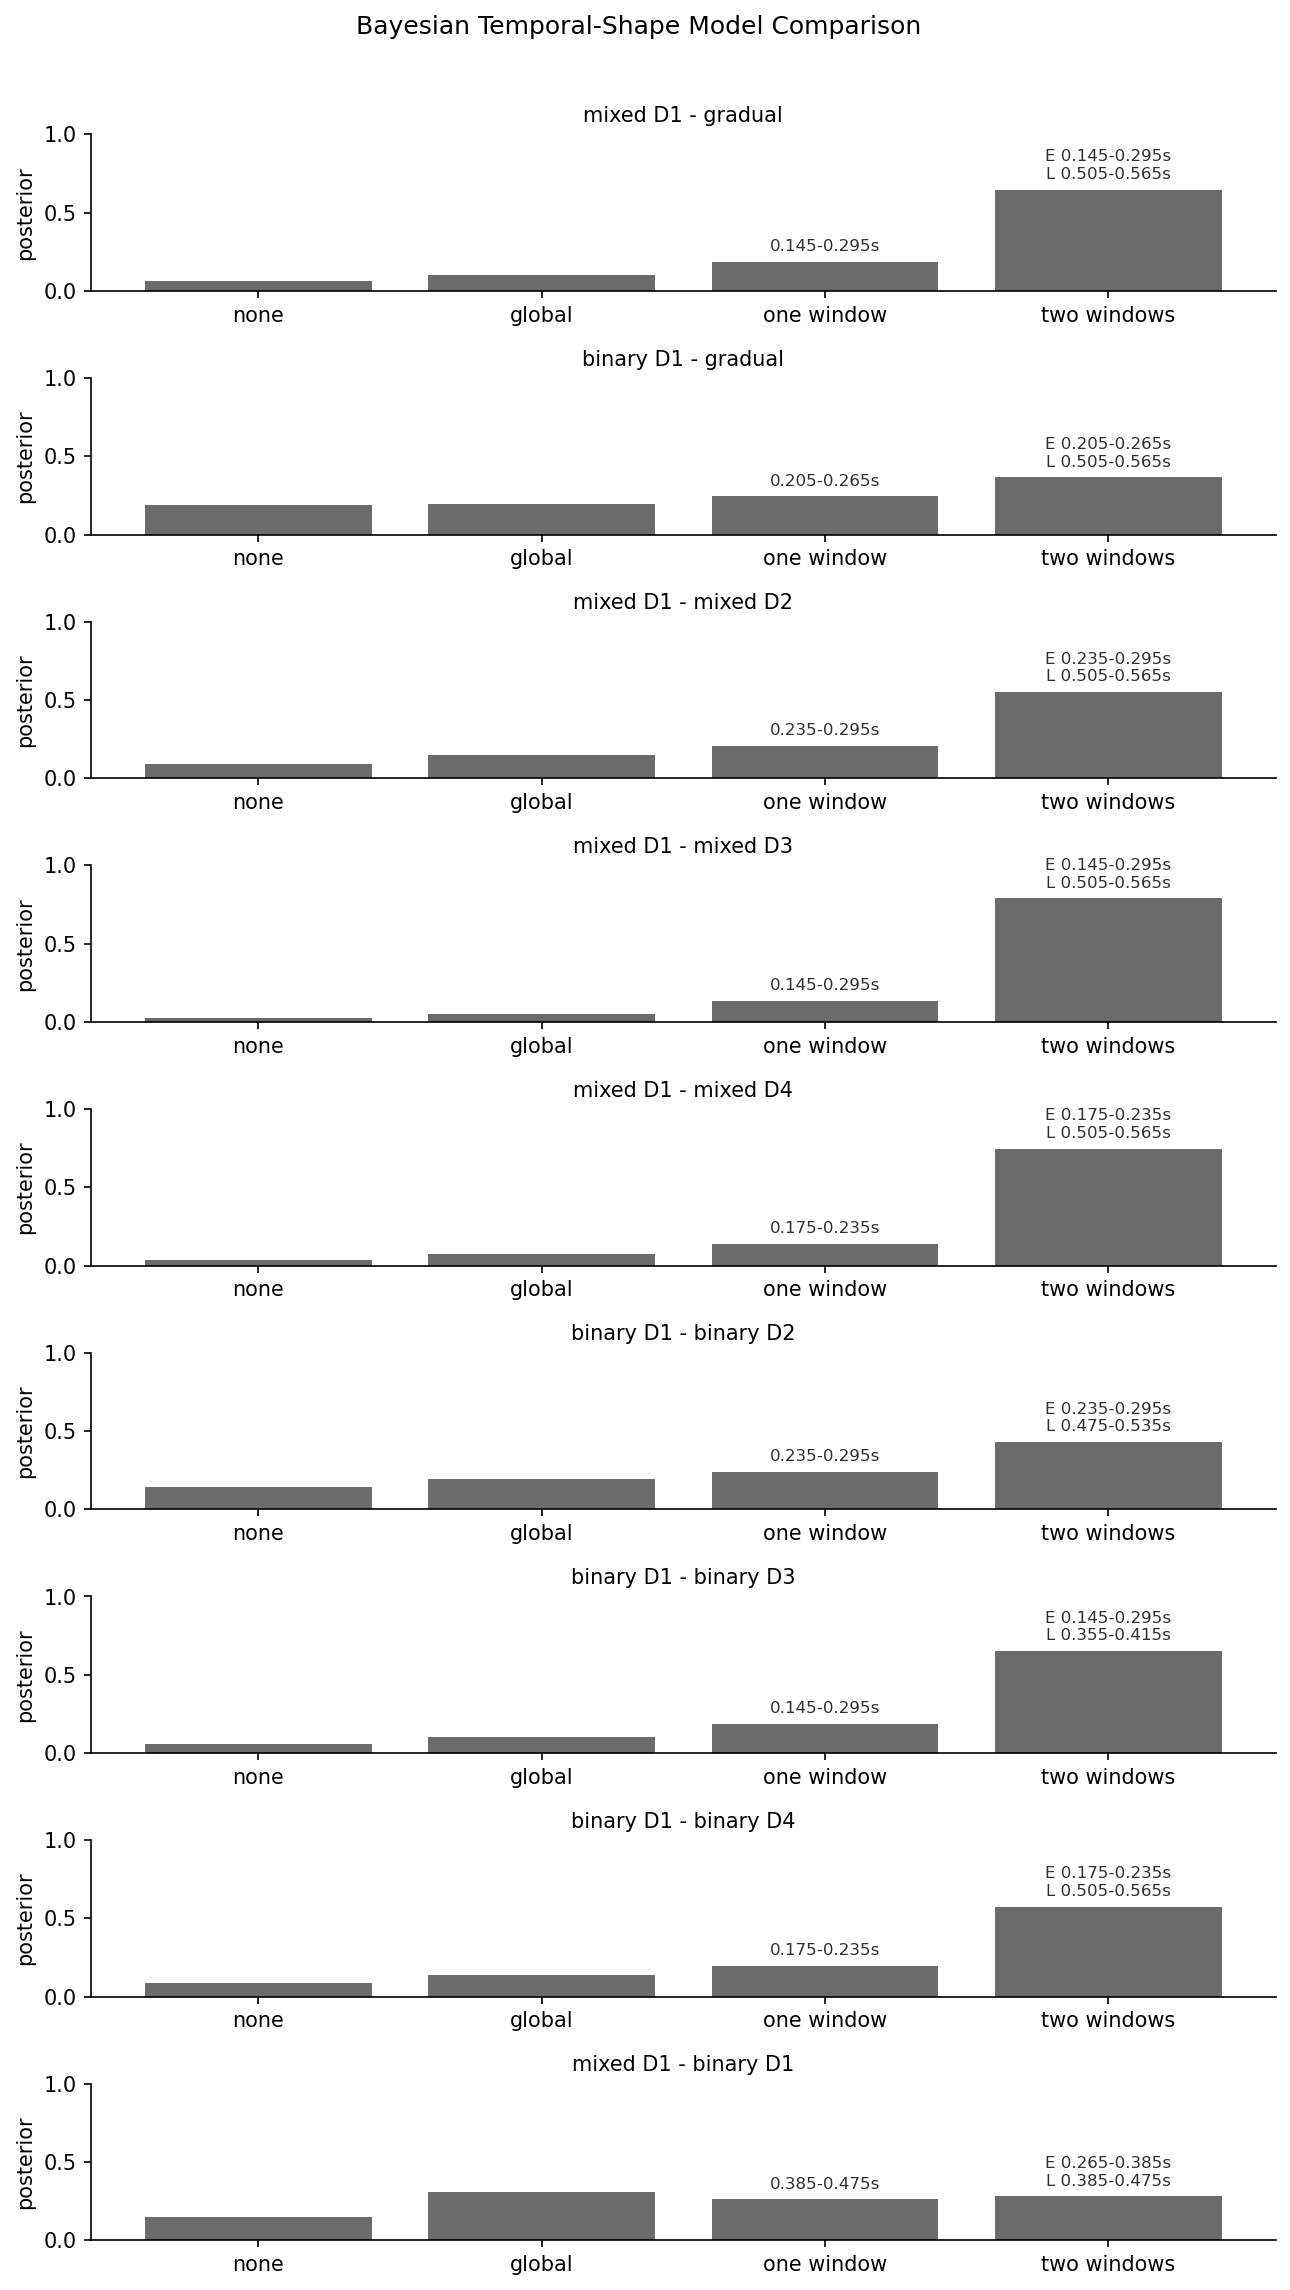
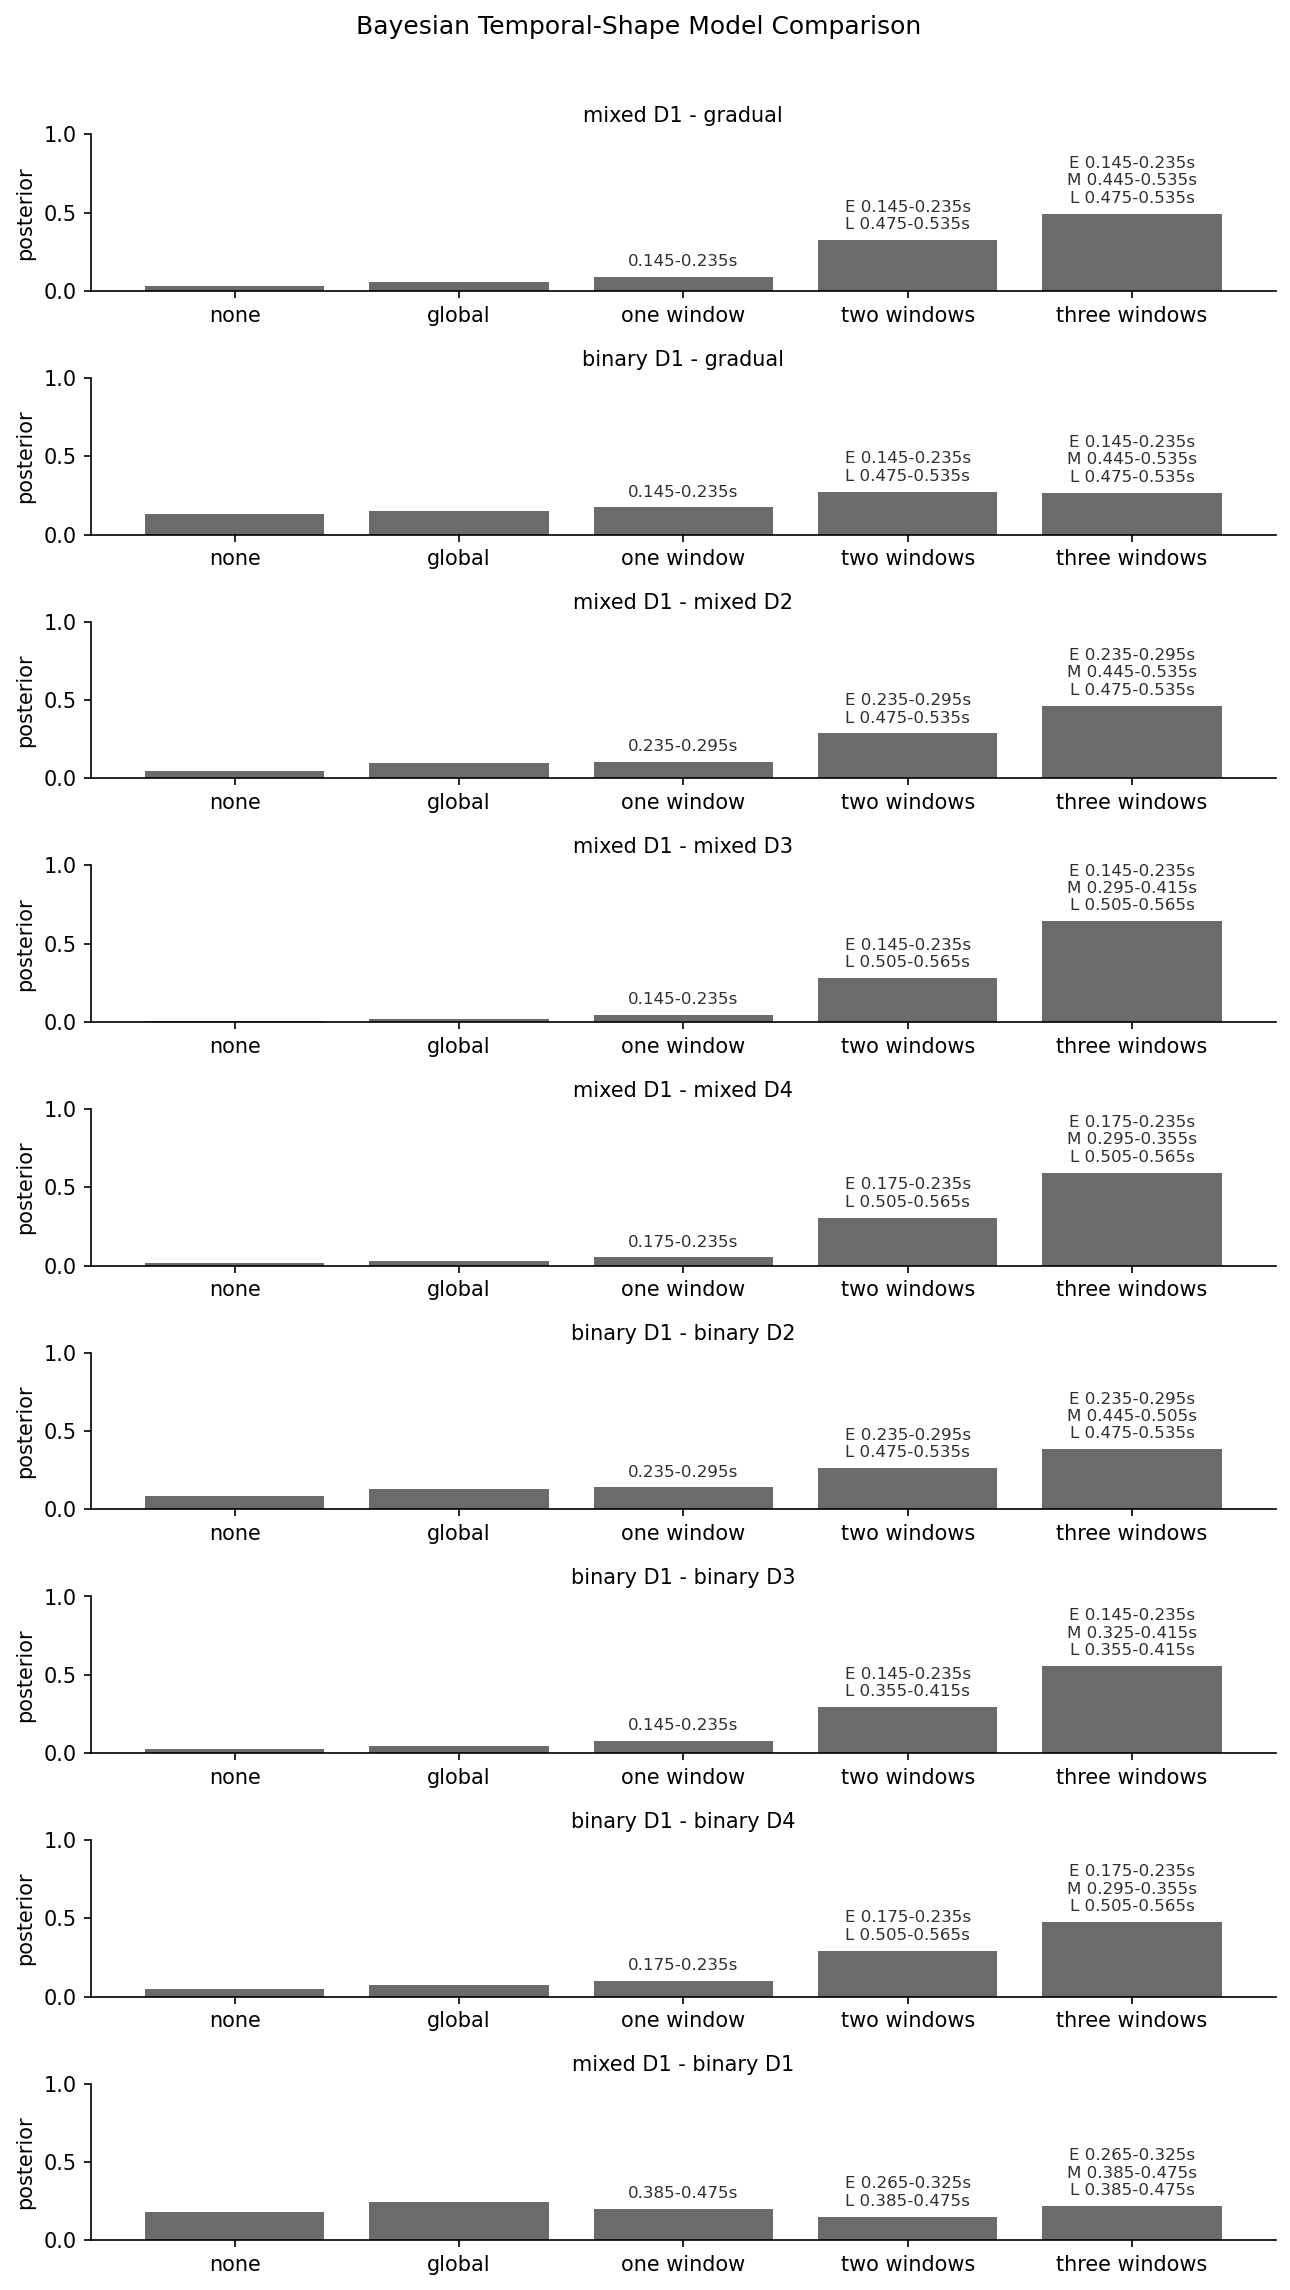
fig rev

diff --git a/code/connect_sensorwide_model_posterior_shape_analysis.py b/code/connect_sensorwide_model_posterior_shape_analysis.py
@@ -25,6 +25,8 @@ ONE_LB = (0.08, 0.58)
 ONE_UB_MAX = 0.68
 EARLY_LB = (0.10, 0.30)
 EARLY_UB_MAX = 0.40
+MIDDLE_LB = (0.28, 0.45)
+MIDDLE_UB_MAX = 0.56
 LATE_LB = (0.35, 0.58)
 LATE_UB_MAX = 0.68
 
@@ -211,6 +213,8 @@ def global_result(Y, times):
     result["ub_early"] = np.nan
     result["lb_late"] = np.nan
     result["ub_late"] = np.nan
+    result["lb_middle"] = np.nan
+    result["ub_middle"] = np.nan
     return result
 
 
@@ -227,6 +231,8 @@ def one_window_results(Y, times):
         row["ub_early"] = np.nan
         row["lb_late"] = np.nan
         row["ub_late"] = np.nan
+        row["lb_middle"] = np.nan
+        row["ub_middle"] = np.nan
         rows.append(row)
     return rows
 
@@ -247,6 +253,18 @@ def interval_score_rows(Y, times, intervals, prefix):
     return rows
 
 
+def logmeanexp(vals):
+    return logsumexp(vals) - math.log(float(len(vals)))
+
+
+def best_interval_score(rows):
+    best = rows[0]
+    for row in rows:
+        if float(row["log_bf"]) > float(best["log_bf"]):
+            best = row
+    return best
+
+
 def two_window_results(Y, times):
     rows = []
     early_intervals = candidate_intervals(times, EARLY_LB, EARLY_UB_MAX)
@@ -261,6 +279,8 @@ def two_window_results(Y, times):
                 "ub_one": np.nan,
                 "lb_early": early["lb_early"],
                 "ub_early": early["ub_early"],
+                "lb_middle": np.nan,
+                "ub_middle": np.nan,
                 "lb_late": late["lb_late"],
                 "ub_late": late["ub_late"],
                 "log_bf": early["log_bf"] + late["log_bf"],
@@ -274,6 +294,50 @@ def two_window_results(Y, times):
             }
             rows.append(row)
     return rows
+
+
+def three_window_result(Y, times):
+    early_intervals = candidate_intervals(times, EARLY_LB, EARLY_UB_MAX)
+    middle_intervals = candidate_intervals(times, MIDDLE_LB, MIDDLE_UB_MAX)
+    late_intervals = candidate_intervals(times, LATE_LB, LATE_UB_MAX)
+    early_rows = interval_score_rows(Y, times, early_intervals, "early")
+    middle_rows = interval_score_rows(Y, times, middle_intervals, "middle")
+    late_rows = interval_score_rows(Y, times, late_intervals, "late")
+    best_early = best_interval_score(early_rows)
+    best_middle = best_interval_score(middle_rows)
+    best_late = best_interval_score(late_rows)
+    early_log_vals = []
+    middle_log_vals = []
+    late_log_vals = []
+    for row in early_rows:
+        early_log_vals.append(float(row["log_bf"]))
+    for row in middle_rows:
+        middle_log_vals.append(float(row["log_bf"]))
+    for row in late_rows:
+        late_log_vals.append(float(row["log_bf"]))
+    return {
+        "shape_model": "three_window",
+        "lb_one": np.nan,
+        "ub_one": np.nan,
+        "lb_early": best_early["lb_early"],
+        "ub_early": best_early["ub_early"],
+        "lb_middle": best_middle["lb_middle"],
+        "ub_middle": best_middle["ub_middle"],
+        "lb_late": best_late["lb_late"],
+        "ub_late": best_late["ub_late"],
+        "log_bf": logmeanexp(early_log_vals)
+        + logmeanexp(middle_log_vals)
+        + logmeanexp(late_log_vals),
+        "effect_mean": np.nan,
+        "effect_sd": np.nan,
+        "effect_p_gt0": np.nan,
+        "effect_early_mean": best_early["effect_mean"],
+        "effect_early_p_gt0": best_early["effect_p_gt0"],
+        "effect_middle_mean": best_middle["effect_mean"],
+        "effect_middle_p_gt0": best_middle["effect_p_gt0"],
+        "effect_late_mean": best_late["effect_mean"],
+        "effect_late_p_gt0": best_late["effect_p_gt0"],
+    }
 
 
 def add_model_posterior(rows):
@@ -309,6 +373,8 @@ def add_model_posterior(rows):
         "ub_early": np.nan,
         "lb_late": np.nan,
         "ub_late": np.nan,
+        "lb_middle": np.nan,
+        "ub_middle": np.nan,
     }
     rows.append(none_row)
     return rows
@@ -346,6 +412,8 @@ def summarize_models(rows, contrast, n_subjects):
                 "ub_early": best.get("ub_early", np.nan),
                 "lb_late": best.get("lb_late", np.nan),
                 "ub_late": best.get("ub_late", np.nan),
+                "lb_middle": best.get("lb_middle", np.nan),
+                "ub_middle": best.get("ub_middle", np.nan),
                 "n_subjects": int(n_subjects),
             }
         )
@@ -369,13 +437,16 @@ def run_connect_sensorwide_model_posterior_shape(
         times, Y, subjects = subject_time_matrix(d, contrast)
         one_count = len(candidate_intervals(times, ONE_LB, ONE_UB_MAX))
         early_count = len(candidate_intervals(times, EARLY_LB, EARLY_UB_MAX))
+        middle_count = len(candidate_intervals(times, MIDDLE_LB, MIDDLE_UB_MAX))
         late_count = len(candidate_intervals(times, LATE_LB, LATE_UB_MAX))
         two_count = early_count * late_count
+        three_count = early_count * middle_count * late_count
         print(
             "[connect posterior shape] "
             f"subjects={len(subjects)}, times={len(times)}, "
-            f"one={one_count}, early={early_count}, late={late_count}, "
-            f"two={two_count}",
+            f"one={one_count}, early={early_count}, "
+            f"middle={middle_count}, late={late_count}, "
+            f"two={two_count}, three={three_count}",
             flush=True,
         )
         rows = []
@@ -387,6 +458,8 @@ def run_connect_sensorwide_model_posterior_shape(
         for row in two_window_results(Y, times):
             rows.append(row)
         print("[connect posterior shape] scored two-window candidates", flush=True)
+        rows.append(three_window_result(Y, times))
+        print("[connect posterior shape] scored three-window family", flush=True)
         rows = add_model_posterior(rows)
         print("[connect posterior shape] computed model posterior", flush=True)
         for row in rows:

diff --git a/code/connect_sensorwide_model_posterior_shape_figure.py b/code/connect_sensorwide_model_posterior_shape_figure.py
@@ -20,12 +20,14 @@ import pandas as pd
 
 from connect_sensorwide_analysis import FIGURES_DIR, OUTPUT_DIR
 
-MODEL_ORDER = ["none", "global", "one_window", "two_window"]
+ACTIVE_PCT = float(os.environ.get("ACTIVE_PCT", "0.20"))
+MODEL_ORDER = ["none", "global", "one_window", "two_window", "three_window"]
 MODEL_LABELS = {
     "none": "none",
     "global": "global",
     "one_window": "one window",
     "two_window": "two windows",
+    "three_window": "three windows",
 }
 DIST_CMAP = "magma"
 
@@ -41,6 +43,18 @@ def require_csv(path):
     if d.empty:
         raise ValueError(f"Empty posterior shape output: {path}")
     return d
+
+
+def active_pct_suffix():
+    if np.isclose(ACTIVE_PCT, 0.20):
+        return ""
+    pct_int = int(round(ACTIVE_PCT * 100.0))
+    return f"_top{pct_int}"
+
+
+def shape_output_path(output_dir, stem):
+    suffix = active_pct_suffix()
+    return output_dir / f"{stem}{suffix}.csv"
 
 
 def compact_contrast_label(contrast):
@@ -59,6 +73,12 @@ def interval_text(row):
     if model == "two_window":
         return (
             f"E {row['lb_early']:.3f}-{row['ub_early']:.3f}s\n"
+            f"L {row['lb_late']:.3f}-{row['ub_late']:.3f}s"
+        )
+    if model == "three_window":
+        return (
+            f"E {row['lb_early']:.3f}-{row['ub_early']:.3f}s\n"
+            f"M {row['lb_middle']:.3f}-{row['ub_middle']:.3f}s\n"
             f"L {row['lb_late']:.3f}-{row['ub_late']:.3f}s"
         )
     return ""
@@ -176,7 +196,12 @@ def plot_shape_summary(summary_df, figures_dir):
         for model in MODEL_ORDER:
             g = d[d["shape_model"] == model]
             if g.empty:
-                raise ValueError(f"Missing shape model={model}, contrast={contrast}")
+                raise ValueError(
+                    f"Missing shape model={model}, contrast={contrast}. "
+                    "The posterior-shape summary is stale. Rerun "
+                    "connect_sensorwide_model_posterior_shape_analysis.py "
+                    "with the same ACTIVE_PCT before plotting."
+                )
             row = g.iloc[0]
             vals.append(float(row["posterior_model_prob"]))
             labels.append(MODEL_LABELS[model])
@@ -325,10 +350,16 @@ def save_fig_connect_sensorwide_model_posterior_shape(
     figures_dir = Path(figures_dir)
     figures_dir.mkdir(parents=True, exist_ok=True)
     summary_df = require_csv(
-        output_dir / "connect_sensorwide_model_posterior_shape_summary.csv"
+        shape_output_path(
+            output_dir,
+            "connect_sensorwide_model_posterior_shape_summary",
+        )
     )
     candidate_df = require_csv(
-        output_dir / "connect_sensorwide_model_posterior_shape_candidates.csv"
+        shape_output_path(
+            output_dir,
+            "connect_sensorwide_model_posterior_shape_candidates",
+        )
     )
     fig_path = plot_shape_summary(summary_df, figures_dir)
     interval_path = plot_interval_distributions(candidate_df, figures_dir)
